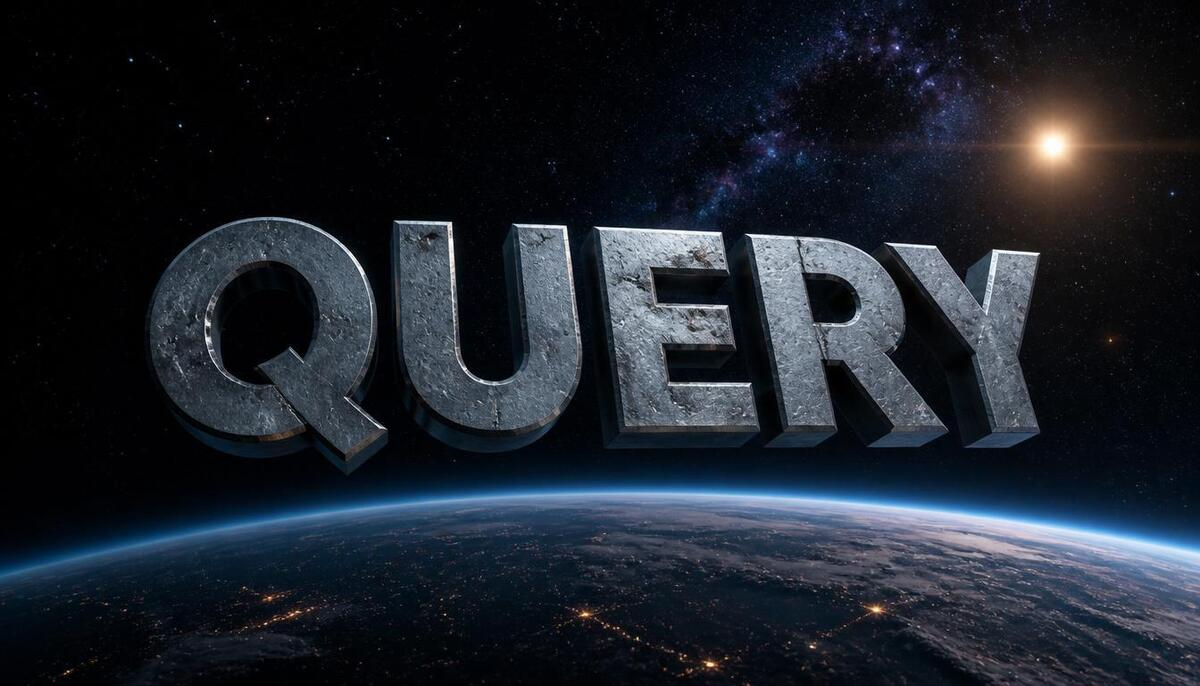
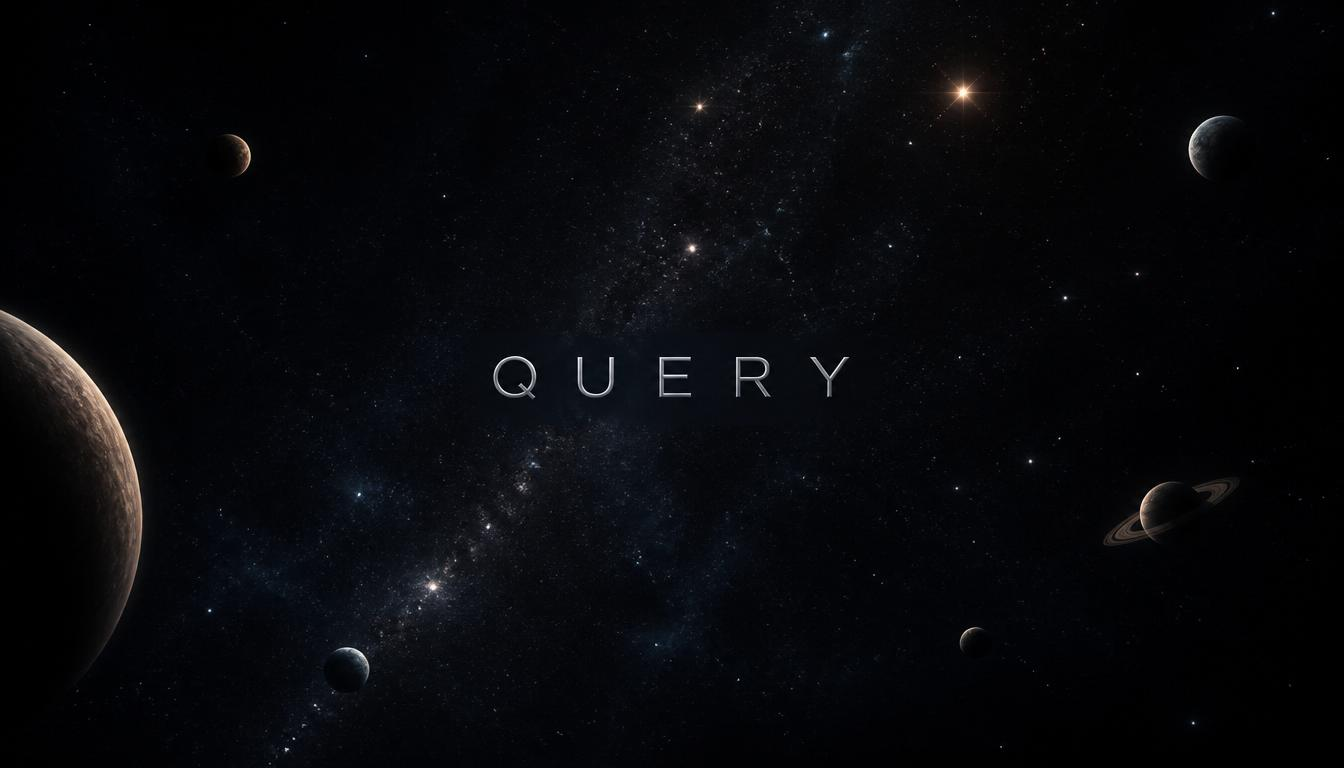
fix img, small changes

diff --git a/_articles/fr/2026-07-08-http-query-method.md b/_articles/fr/2026-07-08-http-query-method.md
@@ -33,7 +33,7 @@ Mais malheureusement, avec le verbe GET, nous n'avons parfois pas le choix d'avo
 ?colors=Bleu&clothingSizes=FR+38&minPrice=16224&maxPrice=59945&sort=price_asc
 ```
 
-Pour gagner en visibilité et en praticité (car il peut y avoir des règles sur le nombre de caractères que doit faire une URL), il arrive de voir des routes de GET list transformées en POST. Sauf que ce verbe est défini par [Mozilla - MDN Web Docs](https://developer.mozilla.org/fr/docs/Web/HTTP/Reference/Methods) :
+Pour gagner en visibilité et en praticité (car il peut y avoir des règles sur le nombre de caractères que peut comporter une URL), il arrive de voir des routes de listing en GET transformées en POST. Or, ce verbe, également défini dans une [RFC](https://datatracker.ietf.org/doc/html/rfc7231#section-4.3.3), a cette définition chez [Mozilla - MDN Web Docs](https://developer.mozilla.org/fr/docs/Web/HTTP/Reference/Methods) :
 
 > La méthode POST soumet une entité à la ressource spécifiée, provoquant souvent un changement d'état ou des effets secondaires sur le serveur.
 
@@ -43,7 +43,9 @@ Bref, on tord POST pour nos besoins.
 
 ### Mini projet pour tester
 
-Grâce à l'IA, j'ai pu créer rapidement un [mini projet](https://github.com/ElevenMarianne/my-little-api-query) (~8$) pour tester le nouveau verbe HTTP (évidemment en PHP). Il s'agit d'une API permettant d'accéder à une liste de timbres. Elle possède des filtres tels qu'une fourchette d'années, le pays, le prix ou encore la couleur.
+Grâce à l'IA, j'ai pu créer rapidement un [mini projet](https://github.com/ElevenMarianne/my-little-api-query) pour tester le nouveau verbe HTTP (évidemment en PHP). Il s'agit d'une API permettant d'accéder à une liste de timbres. Elle possède des filtres tels qu'une fourchette d'années, le pays, le prix ou encore la couleur.
+
+Symfony a déjà intégré le verbe QUERY dès sa [version 7.4](https://github.com/symfony/http-foundation/releases/tag/v7.4.0-BETA1), alors que la méthode n'était encore qu'un *Internet-Draft IETF* pour la release d'octobre 2025.
 
 ### Exemples d'utilisation
 